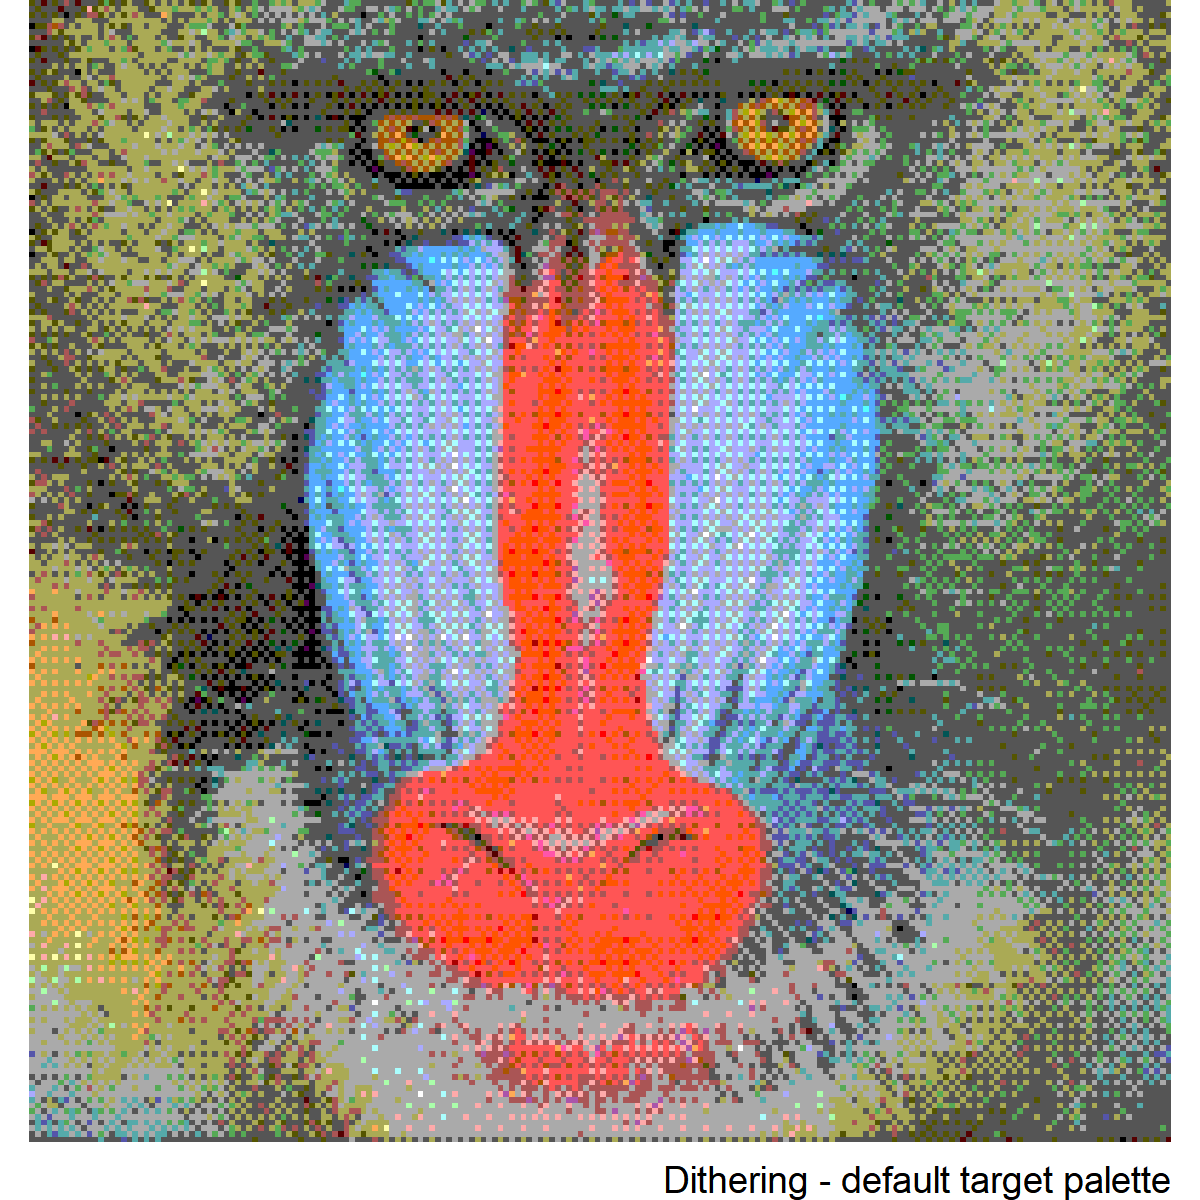
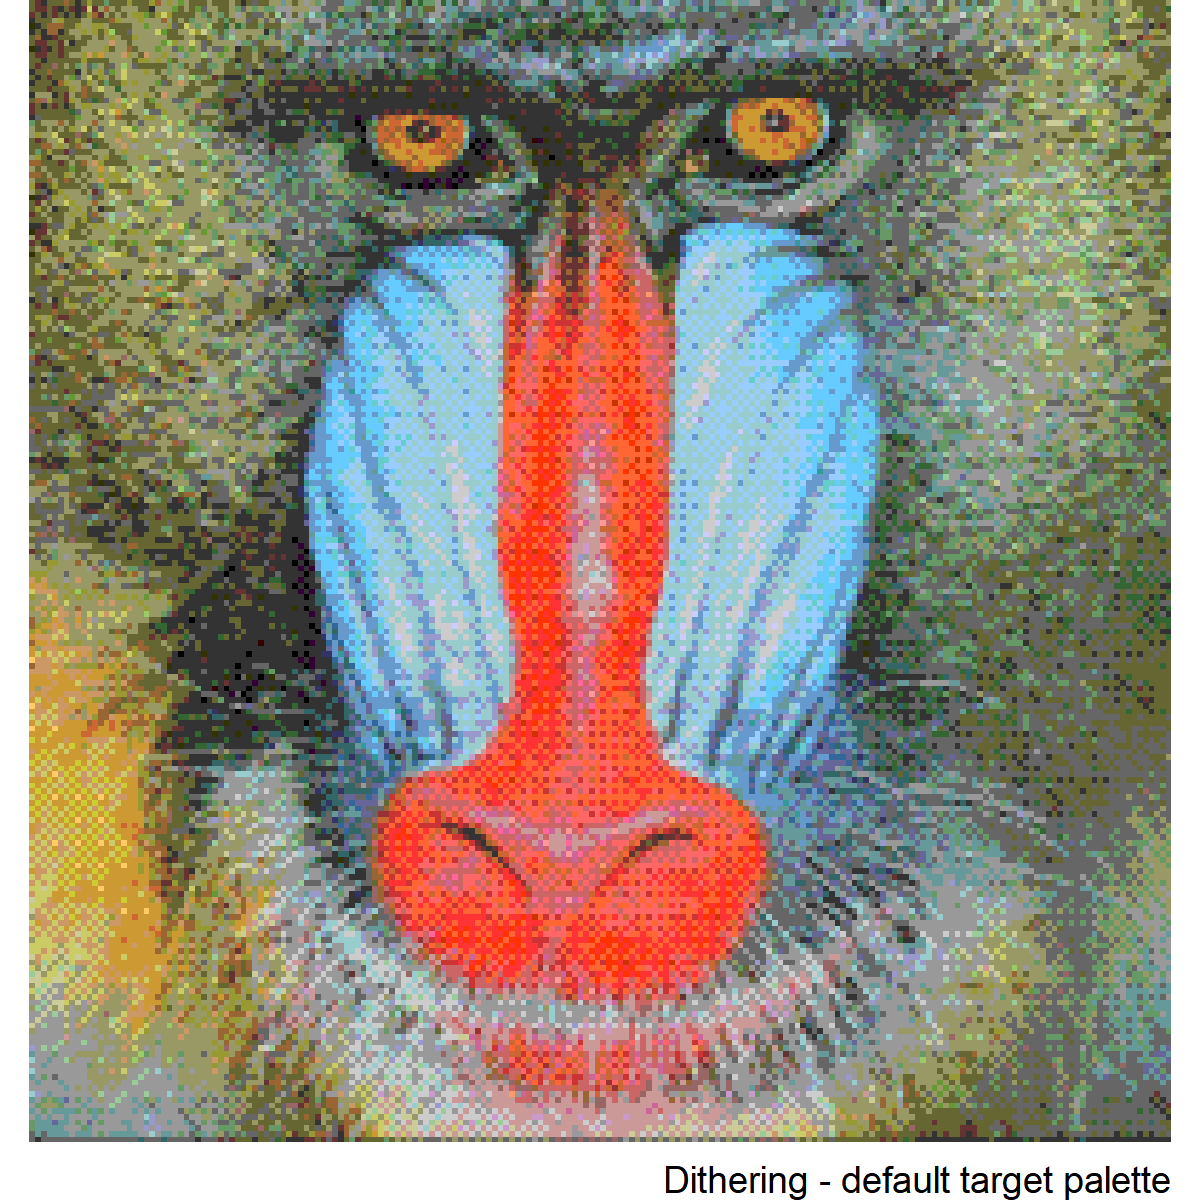
Change default colour palettes

diff --git a/README.md b/README.md
@@ -59,6 +59,10 @@ dither(img, original = TRUE) + labs(caption="Original")
 
 # Dithered (target palette)
 dither(img, target_palette = tp) + labs(caption = "16 colour target palette")
+#> Warning in if (target_palette == "c216") {: the condition has length > 1 and
+#> only the first element will be used
+#> Warning in if (target_palette == "c64") {: the condition has length > 1 and only
+#> the first element will be used
 ```
 
 <img src="man/figures/README-unnamed-chunk-6-1.png" width="45%" /><img src="man/figures/README-unnamed-chunk-6-2.png" width="45%" />
@@ -66,13 +70,12 @@ dither(img, target_palette = tp) + labs(caption = "16 colour target palette")
 ## Default target palette
 
 By default, if a target palette is not supplied, `ditherer` uses a
-uniform palette made of 64 colours (in RGB steps of 85). This palette
-does not perform well, but it does give a certain retro-gaming charm.
+uniform palette made of 216 colours.
 
 View the default palette
 
 ``` r
-data.frame(x = ditherer::uniform_cols) %>% 
+data.frame(x = ditherer::c216) %>% 
   ggplot(aes(x="", fill = x))+
   geom_bar()+
   coord_flip()+
@@ -96,6 +99,10 @@ dither(img, r=1/4) + labs(caption = "r = 1/4")
 
 ``` r
 dither(img, target_palette = grey.colors(8))
+#> Warning in if (target_palette == "c216") {: the condition has length > 1 and
+#> only the first element will be used
+#> Warning in if (target_palette == "c64") {: the condition has length > 1 and only
+#> the first element will be used
 ```
 
 <img src="man/figures/README-unnamed-chunk-9-1.png" width="45%" />
@@ -120,7 +127,7 @@ dither('http://sipi.usc.edu/database/preview/misc/4.2.01.png') +
 dither('http://sipi.usc.edu/database/preview/misc/4.2.03.png', original = TRUE) +
   labs(caption = "Original")
   
-dither('http://sipi.usc.edu/database/preview/misc/4.2.03.png', r=1/4) +
+dither('http://sipi.usc.edu/database/preview/misc/4.2.03.png') +
   labs(caption = "Dithering - default target palette")
 ```
 
